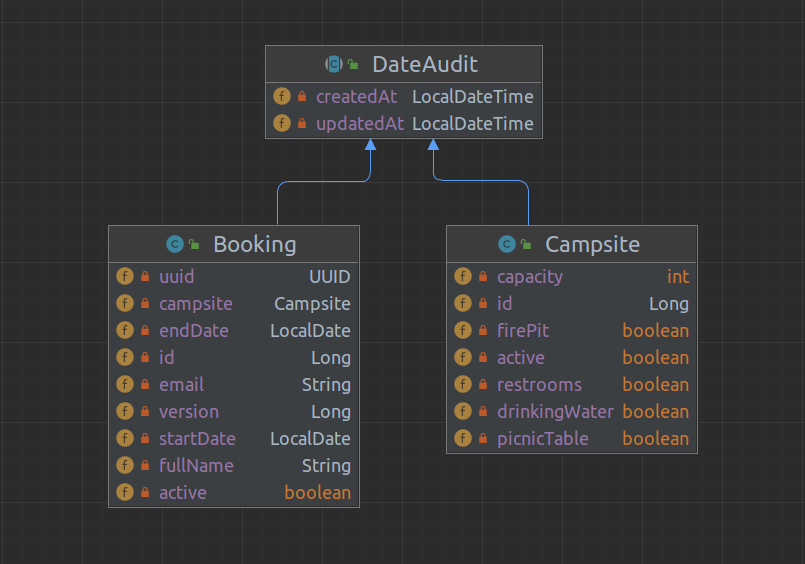
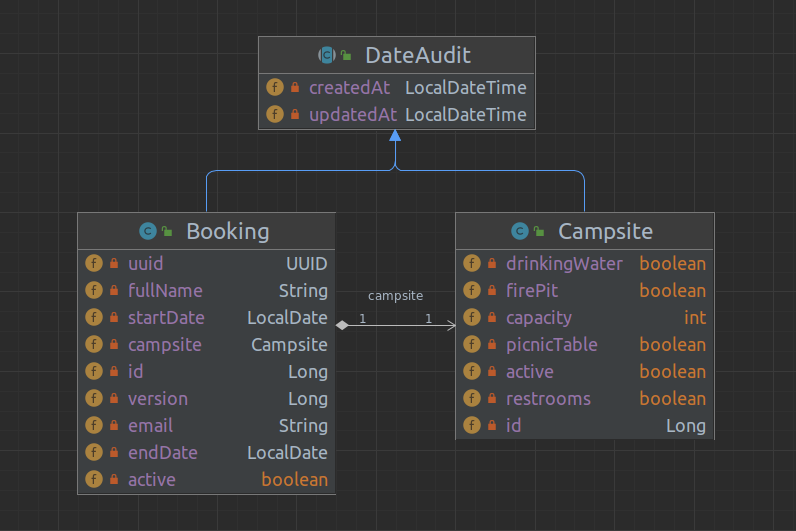
Add content for "Campsite Table, API v2" section

Changed region(s): [[0.0905, 0.4218, 0.9045, 0.9341], [0.3317, 0.0603, 0.6935, 0.2712], [0.3317, 0.3013, 0.6633, 0.3315]]

diff --git a/content/article/campsite-booking-api-revisited-2.md b/content/article/campsite-booking-api-revisited-2.md
@@ -281,7 +281,8 @@ Actions' [workflows](https://github.com/igor-baiborodine/campsite-booking/tree/v
 
 The original implementation was based on the assumption that there was only one campsite available for booking.
 Therefore, the domain model contained only one entity class, **Booking.java**. This time I decided to improve the
-solution with multiple campsites available for booking to choose from.
+solution with multiple campsites available for booking to choose from. Consequently, a new **Campsite.java** entity has 
+been added to the domain model, which now looks like in the UML class diagram below:
 
 ![Domain Model Diagram](domain-model-diagram.png)
 
